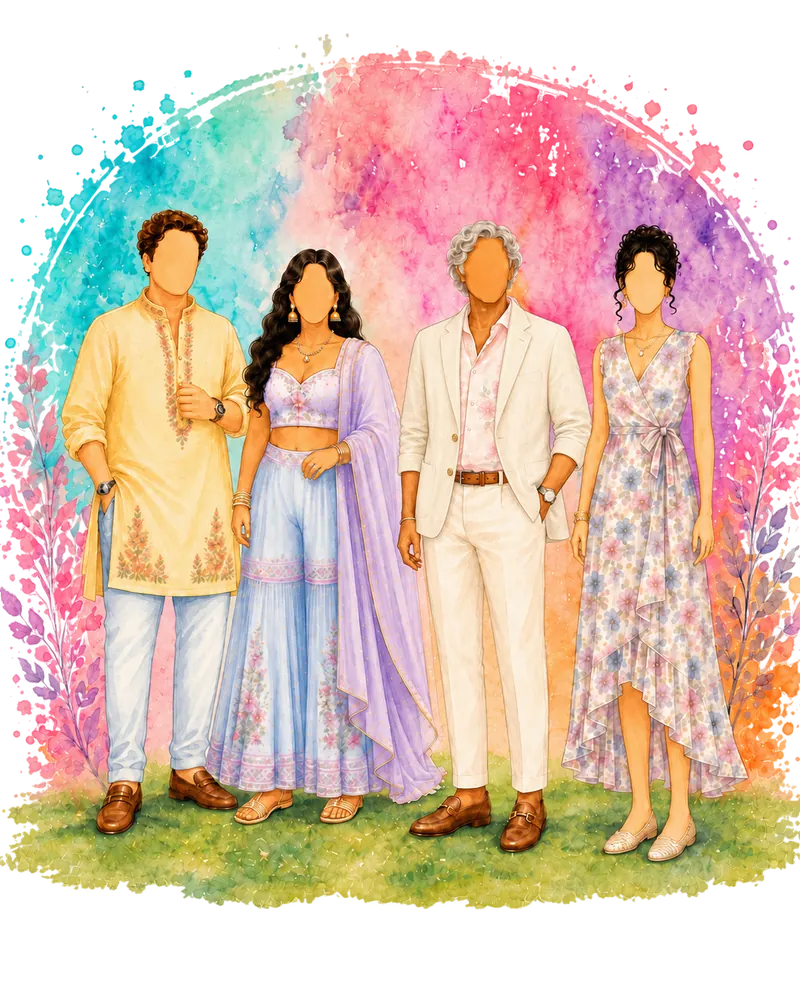
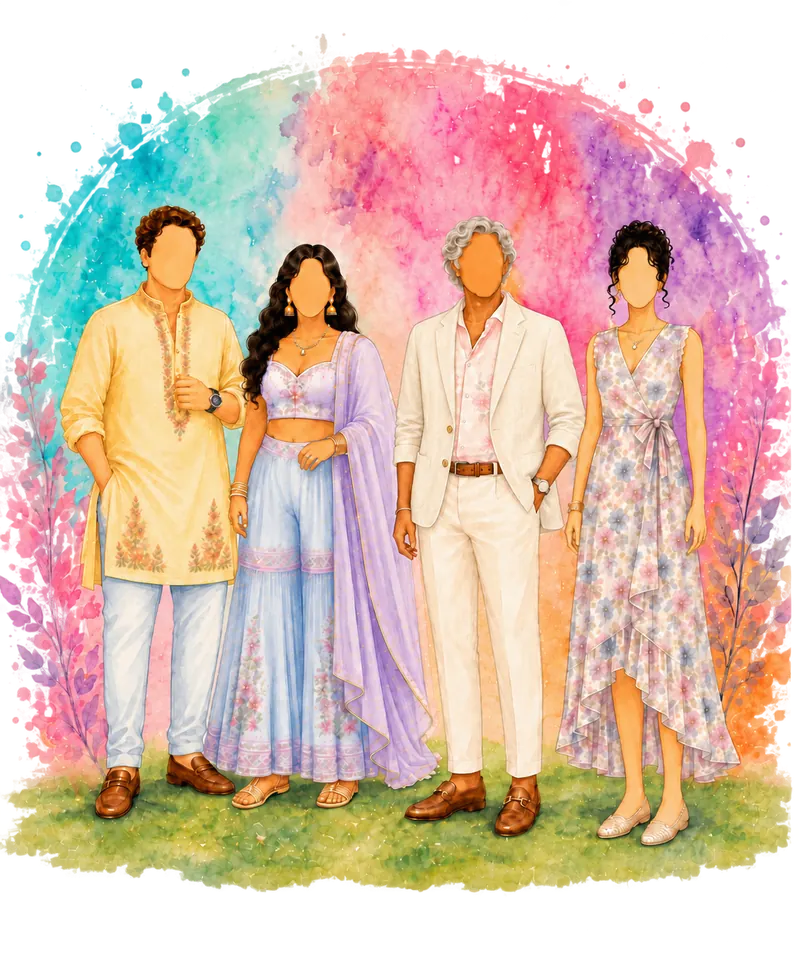
Swap in the fixed carnival artwork
New source from Udit. The aspect ratio changed from 1.25 to 1.20, and the trim
values are width-relative, so trimBottom had to be re-derived rather than
carried over: measured the new alpha bounding box and solid content edge, then
matched the 11px caption overlap the other events already use.

diff --git a/src/data/events.ts b/src/data/events.ts
@@ -70,9 +70,9 @@ export const events: WeddingEvent[] = [
     image: '/art/carnival.webp',
     imageAlt: 'Four guests dressed for the Baraat and Carnival',
     imageWidth: 800,
-    imageHeight: 1000,
+    imageHeight: 960,
     trimTop: '4%',
-    trimBottom: '7.75%',
+    trimBottom: '4.81%',
     timeline: [
       { time: '10:00 AM', label: "Abha and Udit's Baraat" },
       { time: '11:00 AM', label: 'Carnival Booths Open' },
